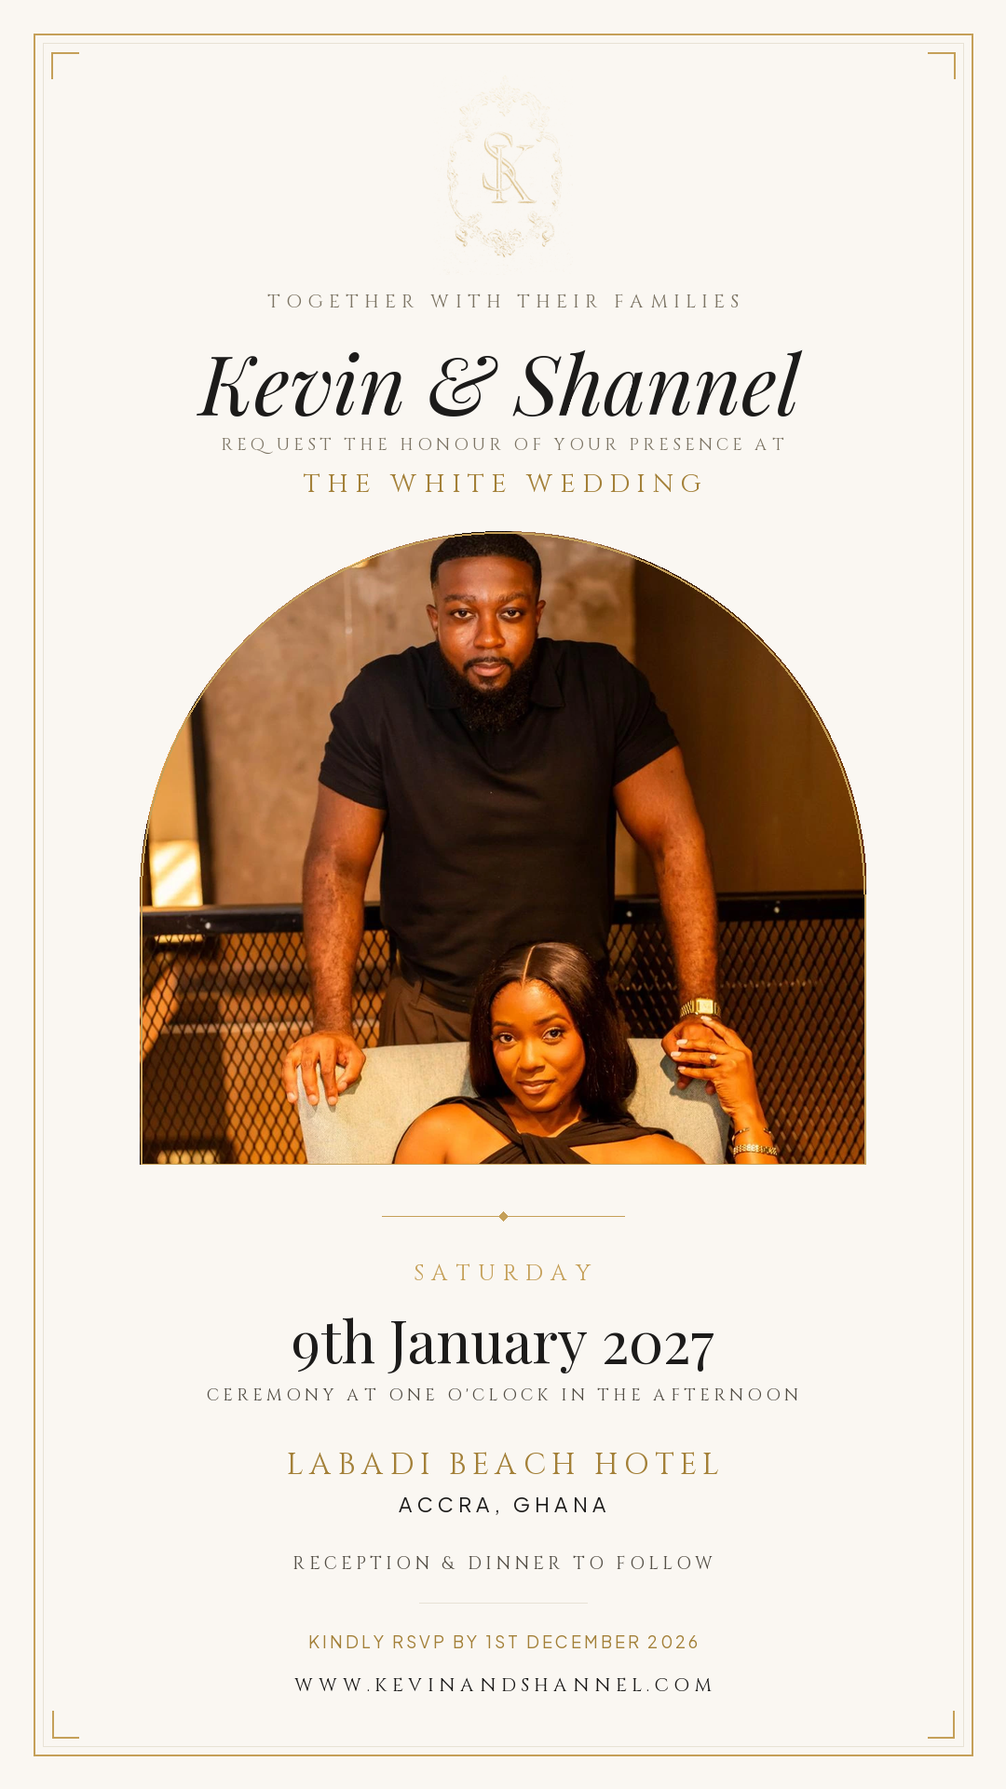
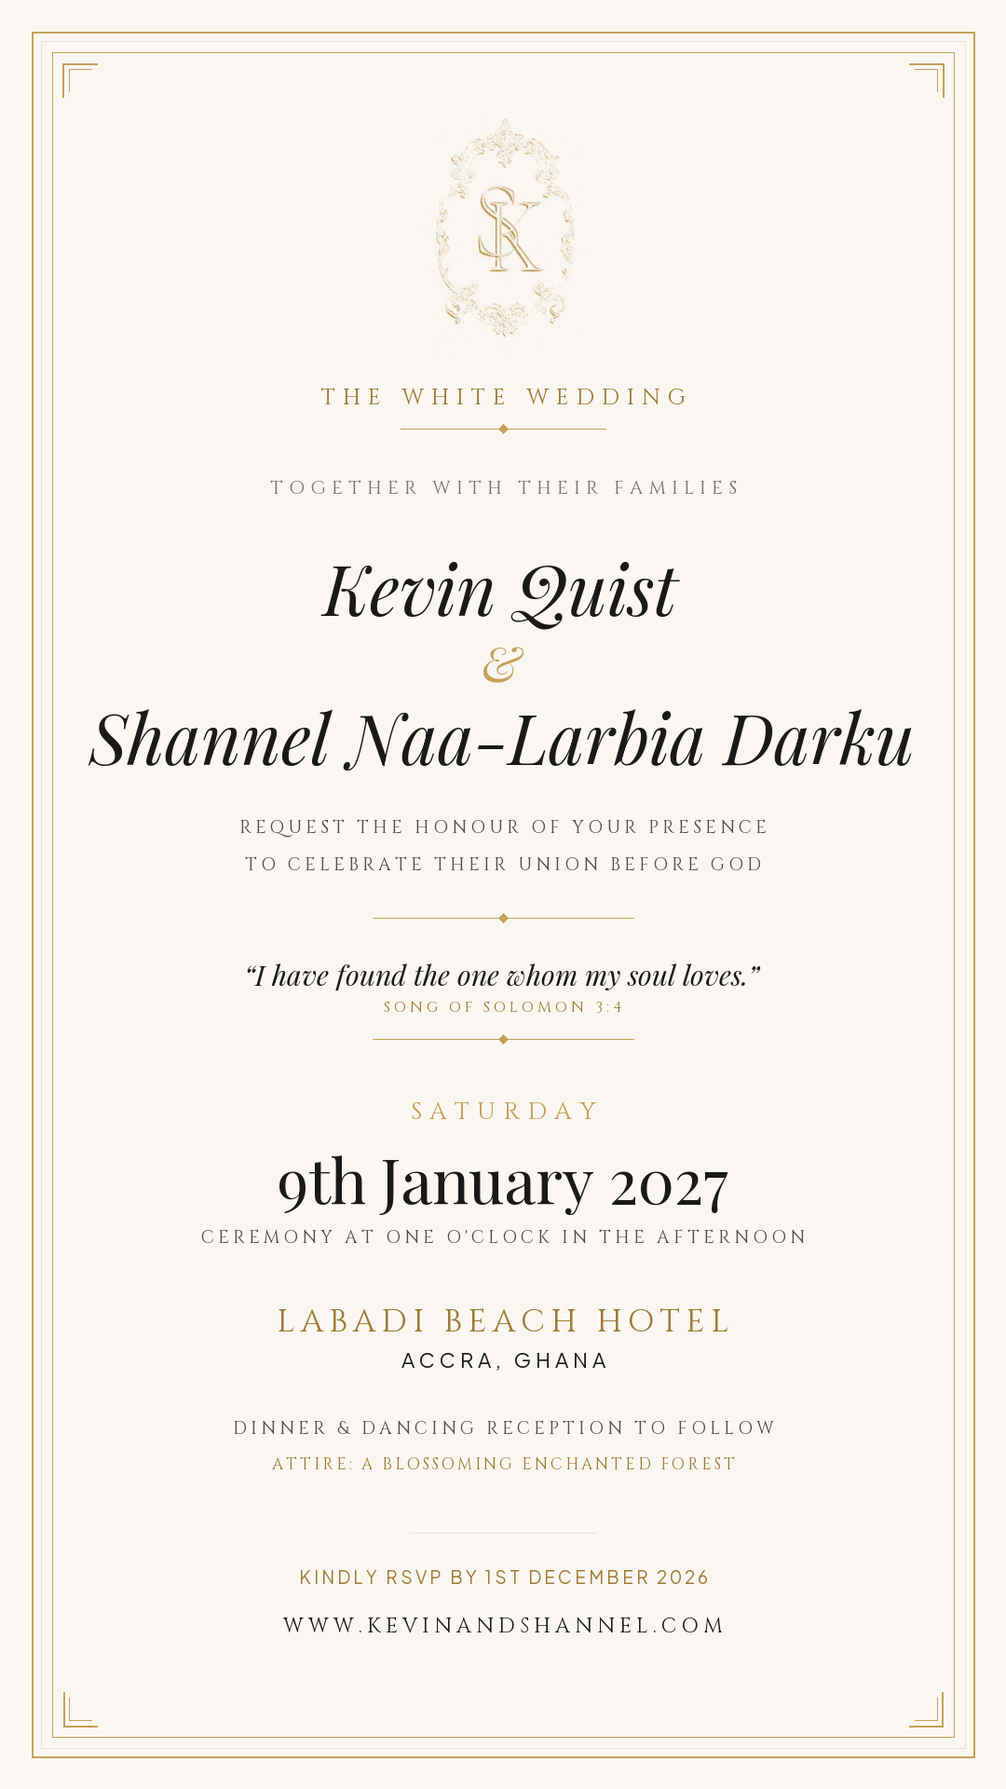
Update formal invitation cards: pure photo-free luxury stationery with full formal names Kevin Quist & Shannel Naa-Larbia Darku

diff --git a/invitation-cards.html b/invitation-cards.html
@@ -261,7 +261,7 @@
     <span class="section-eyebrow">Formal Invitation Suite</span>
     <h1>Bespoke Wedding Invitation Cards</h1>
     <p>
-      Specially crafted digital invitation cards to attach with your WhatsApp messages. Designed with zero "Save the Date" text, featuring your formal White Wedding wording, venue details, and RSVP timeline.
+      Specially crafted bespoke digital invitation stationery designed for Kevin Quist &amp; Shannel Naa-Larbia Darku. Pure, photo-free high-society typographic suites with zero "Save the Date" text, featuring your formal White Wedding ceremony details, venue, dress code, and RSVP timeline.
     </p>
     <div class="gold-divider" style="margin-top: 24px;"><div class="gold-divider-diamond"></div></div>
   </header>
@@ -278,7 +278,7 @@
         <div class="card-info">
           <h3>The Royal Alabaster</h3>
           <p>
-            Pure ivory cardstock with double hairline gold borders, corner flourishes, embossed monogram crest, and an arched proposal portrait. Classical, bright, and regal.
+            Pure ivory cardstock with triple hairline gold borders, ornate corner finials, burnished monogram crest, and classical high-society typography featuring your full formal names. Bright, timeless, and regal.
           </p>
         </div>
       </div>
@@ -300,7 +300,7 @@
         <div class="card-info">
           <h3>The Enchanted Emerald</h3>
           <p>
-            Deep forest emerald noir seamlessly blending into your formal proposal portrait with glowing gold calligraphy. Highlights your Blossoming Enchanted Forest theme.
+            Deep forest emerald noir with luminous gold calligraphy and your gold monogram crest. Elegantly styled with your full formal names in celebration of your Blossoming Enchanted Forest theme.
           </p>
         </div>
       </div>
@@ -312,44 +312,44 @@
       </div>
     </div>
 
-    <!-- Card 3: The Haute Couture Postcard -->
+    <!-- Card 3: The Classical Postcard -->
     <div class="card-preview-box">
       <div>
         <div class="card-meta-pill">Landscape 3:2 • 1600 x 1066</div>
-        <div class="card-img-wrap" onclick="openLightbox('assets/invitations/Invitation-3-HauteCouture-Postcard.png', 'The Haute Couture Postcard — Formal Invitation')">
-          <img src="assets/invitations/Invitation-3-HauteCouture-Postcard.png" alt="The Haute Couture Postcard Formal Invitation" />
+        <div class="card-img-wrap" onclick="openLightbox('assets/invitations/Invitation-3-HauteCouture-Postcard.png', 'The Classical Postcard — Formal Invitation')">
+          <img src="assets/invitations/Invitation-3-HauteCouture-Postcard.png" alt="The Classical Postcard Formal Invitation" />
         </div>
         <div class="card-info">
-          <h3>The Haute Couture Postcard</h3>
+          <h3>The Classical Postcard</h3>
           <p>
-            Horizontal postcard layout. Pairs your proposal portrait in a gold frame alongside an embossed crest invitation panel. Perfectly fills WhatsApp chat previews.
+            Traditional horizontal stationery cardstock in warm alabaster. Features an engraved antique gold crest, horizontal couple titling with gold ampersand, and full ceremony details.
           </p>
         </div>
       </div>
       <div class="card-actions">
-        <a href="assets/invitations/Invitation-3-HauteCouture-Postcard.png" download="Kevin_Shannel_Invitation_HauteCouturePostcard.png" class="btn-download-gold">
+        <a href="assets/invitations/Invitation-3-HauteCouture-Postcard.png" download="Kevin_Shannel_Invitation_ClassicalPostcard.png" class="btn-download-gold">
           <svg viewBox="0 0 24 24" width="16" height="16" fill="none" stroke="currentColor" stroke-width="2"><path d="M21 15v4a2 2 0 0 1-2 2H5a2 2 0 0 1-2-2v-4"/><polyline points="7 10 12 15 17 10"/><line x1="12" y1="15" x2="12" y2="3"/></svg>
           Download High-Res PNG
         </a>
       </div>
     </div>
 
-    <!-- Card 4: The Proposal Romance -->
+    <!-- Card 4: The Royal Obsidian Noir -->
     <div class="card-preview-box">
       <div>
         <div class="card-meta-pill">Square 1:1 • 1200 x 1200</div>
-        <div class="card-img-wrap" onclick="openLightbox('assets/invitations/Invitation-4-ProposalRomance-Square.png', 'The Proposal Romance — Formal Invitation')">
-          <img src="assets/invitations/Invitation-4-ProposalRomance-Square.png" alt="The Proposal Romance Square Invitation Card" />
+        <div class="card-img-wrap" onclick="openLightbox('assets/invitations/Invitation-4-ProposalRomance-Square.png', 'The Royal Obsidian Noir — Formal Invitation')">
+          <img src="assets/invitations/Invitation-4-ProposalRomance-Square.png" alt="The Royal Obsidian Noir Square Invitation Card" />
         </div>
         <div class="card-info">
-          <h3>The Proposal Romance</h3>
+          <h3>The Royal Obsidian Noir</h3>
           <p>
-            Square format featuring a circular gold medallion of your engagement ring moment with classical serif typography. Compact, balanced, and timeless.
+            Square format featuring deep obsidian charcoal cardstock with metallic gold foil typography and corner flourishes. Dramatic, modern, and prestigious.
           </p>
         </div>
       </div>
       <div class="card-actions">
-        <a href="assets/invitations/Invitation-4-ProposalRomance-Square.png" download="Kevin_Shannel_Invitation_ProposalRomance.png" class="btn-download-gold">
+        <a href="assets/invitations/Invitation-4-ProposalRomance-Square.png" download="Kevin_Shannel_Invitation_RoyalObsidianNoir.png" class="btn-download-gold">
           <svg viewBox="0 0 24 24" width="16" height="16" fill="none" stroke="currentColor" stroke-width="2"><path d="M21 15v4a2 2 0 0 1-2 2H5a2 2 0 0 1-2-2v-4"/><polyline points="7 10 12 15 17 10"/><line x1="12" y1="15" x2="12" y2="3"/></svg>
           Download High-Res PNG
         </a>

diff --git a/scripts/generate_formal_invitations_nophoto.py b/scripts/generate_formal_invitations_nophoto.py
@@ -1,0 +1,304 @@
+import os
+import math
+from PIL import Image, ImageDraw, ImageFont
+
+output_dir = r"c:\Users\kevqu\OneDrive\Documents\VSCode Repos\Wedding Website\assets\invitations"
+os.makedirs(output_dir, exist_ok=True)
+fonts_dir = r"c:\Users\kevqu\OneDrive\Documents\VSCode Repos\Wedding Website\assets\fonts"
+images_dir = r"c:\Users\kevqu\OneDrive\Documents\VSCode Repos\Wedding Website\assets\images"
+
+# Typography Fonts
+cinzel_regular = os.path.join(fonts_dir, "Cinzel-Regular.ttf")
+playfair_italic = os.path.join(fonts_dir, "PlayfairDisplay-Italic.ttf")
+playfair_regular = os.path.join(fonts_dir, "PlayfairDisplay-Regular.ttf")
+jakarta_medium = os.path.join(fonts_dir, "PlusJakartaSans-Medium.ttf")
+
+# Color Tokens
+GOLD_PRIMARY = "#C5A059"
+GOLD_LIGHT = "#E8C88B"
+GOLD_DEEP = "#9E7A33"
+GOLD_ACCENT = "#D4AF37"
+CHARCOAL = "#1A1918"
+CHARCOAL_MUTED = "#524D44"
+CHARCOAL_LIGHT = "#787267"
+WHITE = "#FFFFFF"
+ALABASTER = "#FAF7F2"
+IVORY_BORDER = "#E8E1D3"
+EMERALD_NOIR = "#0A1711"
+OBSIDIAN_NOIR = "#131314"
+
+def draw_centered_text(draw, y, text, font, fill, width):
+    bbox = draw.textbbox((0, 0), text, font=font)
+    text_width = bbox[2] - bbox[0]
+    x = (width - text_width) // 2
+    draw.text((x, y), text, font=font, fill=fill)
+    return y + (bbox[3] - bbox[1])
+
+def draw_spaced_text(draw, y, text, font, fill, width, letter_spacing=6):
+    # Use typographic advance width via draw.textlength to avoid unnatural gaps after glyphs like 'Q'
+    char_widths = [draw.textlength(char, font=font) for char in text]
+    total_w = sum(char_widths) + letter_spacing * (len(text) - 1)
+    x = (width - total_w) / 2.0
+    for char, cw in zip(text, char_widths):
+        draw.text((x, y), char, font=font, fill=fill)
+        x += cw + letter_spacing
+    bbox = draw.textbbox((0,0), "A", font=font)
+    return y + (bbox[3] - bbox[1])
+
+def draw_gold_divider(draw, y, width, line_width=260, color=GOLD_PRIMARY):
+    dx = (width - line_width) // 2
+    draw.line([dx, y, dx + line_width, y], fill=color, width=1)
+    cx = width // 2
+    draw.polygon([(cx, y-5), (cx+5, y), (cx, y+5), (cx-5, y)], fill=color)
+
+def draw_ornate_corners(draw, x0, y0, x1, y1, size=32, color=GOLD_PRIMARY):
+    # Top Left
+    draw.line([x0, y0 + size, x0, y0, x0 + size, y0], fill=color, width=2)
+    draw.line([x0 + 6, y0 + size - 6, x0 + 6, y0 + 6, x0 + size - 6, y0 + 6], fill=color, width=1)
+    # Top Right
+    draw.line([x1 - size, y0, x1, y0, x1, y0 + size], fill=color, width=2)
+    draw.line([x1 - size + 6, y0 + 6, x1 - 6, y0 + 6, x1 - 6, y0 + size - 6], fill=color, width=1)
+    # Bottom Left
+    draw.line([x0, y1 - size, x0, y1, x0 + size, y1], fill=color, width=2)
+    draw.line([x0 + 6, y1 - size + 6, x0 + 6, y1 - 6, x0 + size - 6, y1 - 6], fill=color, width=1)
+    # Bottom Right
+    draw.line([x1 - size, y1, x1, y1, x1, y1 - size], fill=color, width=2)
+    draw.line([x1 - size + 6, y1 - 6, x1 - 6, y1 - 6, x1 - 6, y1 - size + 6], fill=color, width=1)
+
+crest_raw_gold = Image.open(os.path.join(images_dir, "ks-crest-gold.png")).convert("RGBA")
+crest_raw_charcoal = Image.open(os.path.join(images_dir, "ks-crest-charcoal.png")).convert("RGBA")
+
+# Build a rich burnished antique gold crest specifically for light alabaster paper
+def create_burnished_gold_crest():
+    _, _, _, a = crest_raw_charcoal.split()
+    gold_fill = Image.new("RGBA", crest_raw_charcoal.size, (178, 140, 72, 255))
+    gold_fill.putalpha(a)
+    return gold_fill
+
+crest_antique_gold = create_burnished_gold_crest()
+
+# ==============================================================================
+# CARD 1: "THE ROYAL ALABASTER & GOLD" (Pure Typographic Luxury)
+# Portrait 9:16 (1080 x 1920)
+# ==============================================================================
+print("1/4 Generating Card 1: The Royal Alabaster (Full Names, No Photo)...")
+W1, H1 = 1080, 1920
+card1 = Image.new("RGB", (W1, H1), ALABASTER)
+draw1 = ImageDraw.Draw(card1)
+
+# Triple Hairline Gold Border with Ornate Corners
+draw1.rectangle([34, 34, W1 - 34, H1 - 34], outline=GOLD_PRIMARY, width=2)
+draw1.rectangle([44, 44, W1 - 44, H1 - 44], outline=IVORY_BORDER, width=1)
+draw1.rectangle([56, 56, W1 - 56, H1 - 56], outline=GOLD_PRIMARY, width=1)
+draw_ornate_corners(draw1, 68, 68, W1 - 68, H1 - 68, size=36, color=GOLD_PRIMARY)
+
+# Prominent Burnished Gold Monogram Crest at Top
+crest_w1 = 180
+crest_h1 = int(crest_antique_gold.height * (crest_w1 / crest_antique_gold.width))
+crest1_scaled = crest_antique_gold.resize((crest_w1, crest_h1), Image.Resampling.LANCZOS)
+card1.paste(crest1_scaled, ((W1 - crest_w1) // 2, 120), crest1_scaled)
+
+draw_spaced_text(draw1, 410, "THE WHITE WEDDING", ImageFont.truetype(cinzel_regular, 24), GOLD_DEEP, W1, 8)
+draw_gold_divider(draw1, 460, W1, 220, GOLD_PRIMARY)
+
+draw_spaced_text(draw1, 510, "TOGETHER WITH THEIR FAMILIES", ImageFont.truetype(cinzel_regular, 20), CHARCOAL_LIGHT, W1, 6)
+
+# Full Formal Names (Identical font size 74 for perfect egalitarian balance)
+draw_centered_text(draw1, 580, "Kevin Quist", ImageFont.truetype(playfair_italic, 74), CHARCOAL, W1)
+draw_centered_text(draw1, 675, "&", ImageFont.truetype(playfair_italic, 52), GOLD_PRIMARY, W1)
+draw_centered_text(draw1, 740, "Shannel Naa-Larbia Darku", ImageFont.truetype(playfair_italic, 74), CHARCOAL, W1)
+
+draw_spaced_text(draw1, 875, "REQUEST THE HONOUR OF YOUR PRESENCE", ImageFont.truetype(cinzel_regular, 19), CHARCOAL_MUTED, W1, 4)
+draw_spaced_text(draw1, 915, "TO CELEBRATE THEIR UNION BEFORE GOD", ImageFont.truetype(cinzel_regular, 19), CHARCOAL_MUTED, W1, 4)
+
+# Scripture Quote in Center
+draw_gold_divider(draw1, 985, W1, 280, GOLD_PRIMARY)
+draw_centered_text(draw1, 1025, "“I have found the one whom my soul loves.”", ImageFont.truetype(playfair_italic, 30), CHARCOAL, W1)
+draw_spaced_text(draw1, 1070, "SONG OF SOLOMON 3:4", ImageFont.truetype(cinzel_regular, 16), GOLD_DEEP, W1, 4)
+draw_gold_divider(draw1, 1115, W1, 280, GOLD_PRIMARY)
+
+# Date & Timings
+draw_spaced_text(draw1, 1175, "SATURDAY", ImageFont.truetype(cinzel_regular, 26), GOLD_PRIMARY, W1, 8)
+draw_centered_text(draw1, 1220, "9th January 2027", ImageFont.truetype(playfair_regular, 66), CHARCOAL, W1)
+draw_spaced_text(draw1, 1315, "CEREMONY AT ONE O'CLOCK IN THE AFTERNOON", ImageFont.truetype(cinzel_regular, 19), CHARCOAL_MUTED, W1, 4)
+
+# Venue & Reception
+draw_spaced_text(draw1, 1395, "LABADI BEACH HOTEL", ImageFont.truetype(cinzel_regular, 34), GOLD_DEEP, W1, 6)
+draw_spaced_text(draw1, 1445, "ACCRA, GHANA", ImageFont.truetype(jakarta_medium, 22), CHARCOAL, W1, 5)
+
+draw_spaced_text(draw1, 1520, "DINNER & DANCING RECEPTION TO FOLLOW", ImageFont.truetype(cinzel_regular, 19), CHARCOAL_MUTED, W1, 4)
+draw_spaced_text(draw1, 1560, "ATTIRE: A BLOSSOMING ENCHANTED FOREST", ImageFont.truetype(cinzel_regular, 17), GOLD_DEEP, W1, 3)
+
+# RSVP and Web Address
+draw1.line([(W1 - 200) // 2, 1645, (W1 + 200) // 2, 1645], fill=IVORY_BORDER, width=1)
+draw_spaced_text(draw1, 1680, "KINDLY RSVP BY 1ST DECEMBER 2026", ImageFont.truetype(jakarta_medium, 19), GOLD_DEEP, W1, 3)
+draw_spaced_text(draw1, 1730, "WWW.KEVINANDSHANNEL.COM", ImageFont.truetype(cinzel_regular, 22), CHARCOAL, W1, 5)
+
+card1.save(os.path.join(output_dir, "Invitation-1-RoyalAlabaster-Story.png"), quality=95)
+print("Saved Card 1.")
+
+
+# ==============================================================================
+# CARD 2: "THE ENCHANTED FOREST EMERALD" (Deep Velvety Green & Gold Calligraphy)
+# Portrait 9:16 (1080 x 1920)
+# ==============================================================================
+print("2/4 Generating Card 2: The Enchanted Forest Emerald (Full Names, No Photo)...")
+W2, H2 = 1080, 1920
+card2 = Image.new("RGB", (W2, H2), (10, 22, 17)) # Rich Forest Emerald
+draw2 = ImageDraw.Draw(card2)
+
+# Double Gold Border with Corner Brackets
+draw2.rectangle([34, 34, W2 - 34, H2 - 34], outline=GOLD_PRIMARY, width=2)
+draw2.rectangle([46, 46, W2 - 46, H2 - 46], outline=GOLD_DEEP, width=1)
+draw_ornate_corners(draw2, 58, 58, W2 - 58, H2 - 58, size=34, color=GOLD_LIGHT)
+
+# Luminous Gold Crest at Top
+crest2_scaled = crest_raw_gold.resize((crest_w1, crest_h1), Image.Resampling.LANCZOS)
+card2.paste(crest2_scaled, ((W2 - crest_w1) // 2, 120), crest2_scaled)
+
+draw_spaced_text(draw2, 410, "THE WHITE WEDDING", ImageFont.truetype(cinzel_regular, 24), GOLD_LIGHT, W2, 8)
+draw_gold_divider(draw2, 460, W2, 220, GOLD_LIGHT)
+
+draw_spaced_text(draw2, 510, "TOGETHER WITH THEIR FAMILIES", ImageFont.truetype(cinzel_regular, 20), "#B5AFA6", W2, 6)
+
+# Full Formal Names (Identical font size 74)
+draw_centered_text(draw2, 580, "Kevin Quist", ImageFont.truetype(playfair_italic, 74), WHITE, W2)
+draw_centered_text(draw2, 675, "&", ImageFont.truetype(playfair_italic, 52), GOLD_LIGHT, W2)
+draw_centered_text(draw2, 740, "Shannel Naa-Larbia Darku", ImageFont.truetype(playfair_italic, 74), WHITE, W2)
+
+draw_spaced_text(draw2, 875, "REQUEST THE HONOUR OF YOUR PRESENCE", ImageFont.truetype(cinzel_regular, 19), "#D1CCC2", W2, 4)
+draw_spaced_text(draw2, 915, "TO WITNESS THEIR SACRED VOWS", ImageFont.truetype(cinzel_regular, 19), "#D1CCC2", W2, 4)
+
+# Scripture Quote in Center
+draw_gold_divider(draw2, 985, W2, 280, GOLD_LIGHT)
+draw_centered_text(draw2, 1025, "“I have found the one whom my soul loves.”", ImageFont.truetype(playfair_italic, 30), GOLD_LIGHT, W2)
+draw_spaced_text(draw2, 1070, "SONG OF SOLOMON 3:4", ImageFont.truetype(cinzel_regular, 16), "#B5AFA6", W2, 4)
+draw_gold_divider(draw2, 1115, W2, 280, GOLD_LIGHT)
+
+# Date & Timings
+draw_spaced_text(draw2, 1175, "SATURDAY", ImageFont.truetype(cinzel_regular, 26), GOLD_LIGHT, W2, 8)
+draw_centered_text(draw2, 1220, "9th January 2027", ImageFont.truetype(playfair_regular, 66), WHITE, W2)
+draw_spaced_text(draw2, 1315, "CEREMONY AT ONE O'CLOCK IN THE AFTERNOON", ImageFont.truetype(cinzel_regular, 19), "#D1CCC2", W2, 4)
+
+# Venue & Reception
+draw_spaced_text(draw2, 1395, "LABADI BEACH HOTEL", ImageFont.truetype(cinzel_regular, 34), GOLD_LIGHT, W2, 6)
+draw_spaced_text(draw2, 1445, "ACCRA, GHANA", ImageFont.truetype(jakarta_medium, 22), WHITE, W2, 5)
+
+draw_spaced_text(draw2, 1520, "RECEPTION, DINNER & DANCING TO FOLLOW", ImageFont.truetype(cinzel_regular, 19), "#D1CCC2", W2, 4)
+draw_spaced_text(draw2, 1560, "ATTIRE: A BLOSSOMING ENCHANTED FOREST", ImageFont.truetype(cinzel_regular, 17), GOLD_LIGHT, W2, 3)
+
+# RSVP and Web Address
+draw2.line([(W2 - 200) // 2, 1645, (W2 + 200) // 2, 1645], fill=GOLD_DEEP, width=1)
+draw_spaced_text(draw2, 1680, "KINDLY RSVP BY 1ST DECEMBER 2026", ImageFont.truetype(jakarta_medium, 19), GOLD_LIGHT, W2, 3)
+draw_spaced_text(draw2, 1730, "WWW.KEVINANDSHANNEL.COM", ImageFont.truetype(cinzel_regular, 22), WHITE, W2, 5)
+
+card2.save(os.path.join(output_dir, "Invitation-2-EnchantedEmerald-Story.png"), quality=95)
+print("Saved Card 2.")
+
+
+# ==============================================================================
+# CARD 3: "THE CLASSICAL POSTCARD" (Traditional Formal Landscape Invitation)
+# Landscape 3:2 (1600 x 1066)
+# ==============================================================================
+print("3/4 Generating Card 3: The Classical Postcard (Full Names, No Photo)...")
+W3, H3 = 1600, 1066
+card3 = Image.new("RGB", (W3, H3), ALABASTER)
+draw3 = ImageDraw.Draw(card3)
+
+# Double Gold Outer Border with Corner Accents
+draw3.rectangle([32, 32, W3 - 32, H3 - 32], outline=GOLD_PRIMARY, width=2)
+draw3.rectangle([42, 42, W3 - 42, H3 - 42], outline=IVORY_BORDER, width=1)
+draw3.rectangle([52, 52, W3 - 52, H3 - 52], outline=GOLD_PRIMARY, width=1)
+draw_ornate_corners(draw3, 62, 62, W3 - 62, H3 - 62, size=32, color=GOLD_PRIMARY)
+
+# Centered Burnished Gold Crest at Top
+crest_w3 = 135
+crest_h3 = int(crest_antique_gold.height * (crest_w3 / crest_antique_gold.width))
+crest3_scaled = crest_antique_gold.resize((crest_w3, crest_h3), Image.Resampling.LANCZOS)
+card3.paste(crest3_scaled, ((W3 - crest_w3) // 2, 75), crest3_scaled)
+
+draw_spaced_text(draw3, 285, "THE WHITE WEDDING", ImageFont.truetype(cinzel_regular, 22), GOLD_DEEP, W3, 8)
+draw_gold_divider(draw3, 325, W3, 220, GOLD_PRIMARY)
+
+draw_spaced_text(draw3, 355, "TOGETHER WITH THEIR FAMILIES", ImageFont.truetype(cinzel_regular, 18), CHARCOAL_LIGHT, W3, 6)
+
+# Couple Full Names with Gold Ampersand
+name_f3 = ImageFont.truetype(playfair_italic, 54)
+amp_f3 = ImageFont.truetype(playfair_italic, 46)
+w_kq = draw3.textlength("Kevin Quist", font=name_f3)
+w_amp = draw3.textlength(" & ", font=amp_f3)
+w_snd = draw3.textlength("Shannel Naa-Larbia Darku", font=name_f3)
+total_names_w = w_kq + w_amp + w_snd
+start_x3 = (W3 - total_names_w) / 2.0
+y_name3 = 405
+draw3.text((start_x3, y_name3), "Kevin Quist", font=name_f3, fill=CHARCOAL)
+draw3.text((start_x3 + w_kq, y_name3 + 4), " & ", font=amp_f3, fill=GOLD_PRIMARY)
+draw3.text((start_x3 + w_kq + w_amp, y_name3), "Shannel Naa-Larbia Darku", font=name_f3, fill=CHARCOAL)
+
+draw_spaced_text(draw3, 500, "REQUEST THE HONOUR OF YOUR PRESENCE AT THEIR WEDDING CELEBRATION", ImageFont.truetype(cinzel_regular, 18), CHARCOAL_MUTED, W3, 4)
+
+draw_gold_divider(draw3, 560, W3, 300, GOLD_PRIMARY)
+
+draw_spaced_text(draw3, 600, "SATURDAY, 9TH JANUARY 2027", ImageFont.truetype(cinzel_regular, 24), GOLD_PRIMARY, W3, 7)
+draw_spaced_text(draw3, 640, "CEREMONY AT ONE O'CLOCK IN THE AFTERNOON", ImageFont.truetype(cinzel_regular, 18), CHARCOAL_MUTED, W3, 4)
+
+draw_spaced_text(draw3, 700, "LABADI BEACH HOTEL • ACCRA, GHANA", ImageFont.truetype(cinzel_regular, 28), CHARCOAL, W3, 6)
+
+draw_spaced_text(draw3, 760, "RECEPTION & DINNER TO FOLLOW  •  ATTIRE: A BLOSSOMING ENCHANTED FOREST", ImageFont.truetype(cinzel_regular, 16), CHARCOAL_LIGHT, W3, 3)
+
+draw3.line([(W3 - 240) // 2, 830, (W3 + 240) // 2, 830], fill=IVORY_BORDER, width=1)
+draw_spaced_text(draw3, 860, "KINDLY RSVP BY 1ST DECEMBER 2026", ImageFont.truetype(jakarta_medium, 18), GOLD_DEEP, W3, 3)
+draw_spaced_text(draw3, 905, "WWW.KEVINANDSHANNEL.COM", ImageFont.truetype(cinzel_regular, 20), CHARCOAL, W3, 5)
+
+card3.save(os.path.join(output_dir, "Invitation-3-HauteCouture-Postcard.png"), quality=95)
+print("Saved Card 3.")
+
+
+# ==============================================================================
+# CARD 4: "THE ROYAL OBSIDIAN NOIR" (Square 1200 x 1200 — Gold Foil Stamping)
+# Square 1:1 (1200 x 1200)
+# ==============================================================================
+print("4/4 Generating Card 4: The Royal Obsidian Noir (Full Names, No Photo)...")
+W4, H4 = 1200, 1200
+card4 = Image.new("RGB", (W4, H4), OBSIDIAN_NOIR)
+draw4 = ImageDraw.Draw(card4)
+
+# Double Gold Outer Border
+draw4.rectangle([32, 32, W4 - 32, H4 - 32], outline=GOLD_PRIMARY, width=2)
+draw4.rectangle([42, 42, W4 - 42, H4 - 42], outline=GOLD_DEEP, width=1)
+draw_ornate_corners(draw4, 52, 52, W4 - 52, H4 - 52, size=30, color=GOLD_LIGHT)
+
+# Luminous Gold Crest
+crest_w4 = 145
+crest_h4 = int(crest_raw_gold.height * (crest_w4 / crest_raw_gold.width))
+crest4_scaled = crest_raw_gold.resize((crest_w4, crest_h4), Image.Resampling.LANCZOS)
+card4.paste(crest4_scaled, ((W4 - crest_w4) // 2, 75), crest4_scaled)
+
+draw_spaced_text(draw4, 300, "THE WHITE WEDDING", ImageFont.truetype(cinzel_regular, 22), GOLD_LIGHT, W4, 8)
+draw_gold_divider(draw4, 340, W4, 200, GOLD_LIGHT)
+
+draw_spaced_text(draw4, 375, "TOGETHER WITH THEIR FAMILIES", ImageFont.truetype(cinzel_regular, 18), "#A69F94", W4, 5)
+
+# Both names size 62 for perfect harmony
+draw_centered_text(draw4, 430, "Kevin Quist", ImageFont.truetype(playfair_italic, 62), WHITE, W4)
+draw_centered_text(draw4, 510, "&", ImageFont.truetype(playfair_italic, 46), GOLD_LIGHT, W4)
+draw_centered_text(draw4, 565, "Shannel Naa-Larbia Darku", ImageFont.truetype(playfair_italic, 62), WHITE, W4)
+
+draw_spaced_text(draw4, 670, "CORDIALLY INVITE YOU TO CELEBRATE THEIR UNION", ImageFont.truetype(cinzel_regular, 17), "#D1CCC2", W4, 4)
+
+draw_gold_divider(draw4, 725, W4, 240, GOLD_LIGHT)
+
+draw_spaced_text(draw4, 765, "SATURDAY, 9TH JANUARY 2027", ImageFont.truetype(cinzel_regular, 22), GOLD_LIGHT, W4, 6)
+draw_spaced_text(draw4, 805, "CEREMONY AT ONE O'CLOCK IN THE AFTERNOON", ImageFont.truetype(cinzel_regular, 17), "#B5AFA6", W4, 3)
+
+draw_spaced_text(draw4, 860, "LABADI BEACH HOTEL • ACCRA, GHANA", ImageFont.truetype(cinzel_regular, 26), WHITE, W4, 5)
+draw_spaced_text(draw4, 910, "RECEPTION & DINNER TO FOLLOW", ImageFont.truetype(cinzel_regular, 16), "#B5AFA6", W4, 3)
+
+draw4.line([(W4 - 180) // 2, 970, (W4 + 180) // 2, 970], fill=GOLD_DEEP, width=1)
+draw_spaced_text(draw4, 1000, "KINDLY RSVP BY 1ST DECEMBER 2026", ImageFont.truetype(jakarta_medium, 18), GOLD_LIGHT, W4, 3)
+draw_spaced_text(draw4, 1045, "WWW.KEVINANDSHANNEL.COM", ImageFont.truetype(cinzel_regular, 20), WHITE, W4, 5)
+
+card4.save(os.path.join(output_dir, "Invitation-4-ProposalRomance-Square.png"), quality=95)
+print("Saved Card 4.")
+
+print("All 4 Photo-Free Formal Invitation Cards Generated Successfully!")
